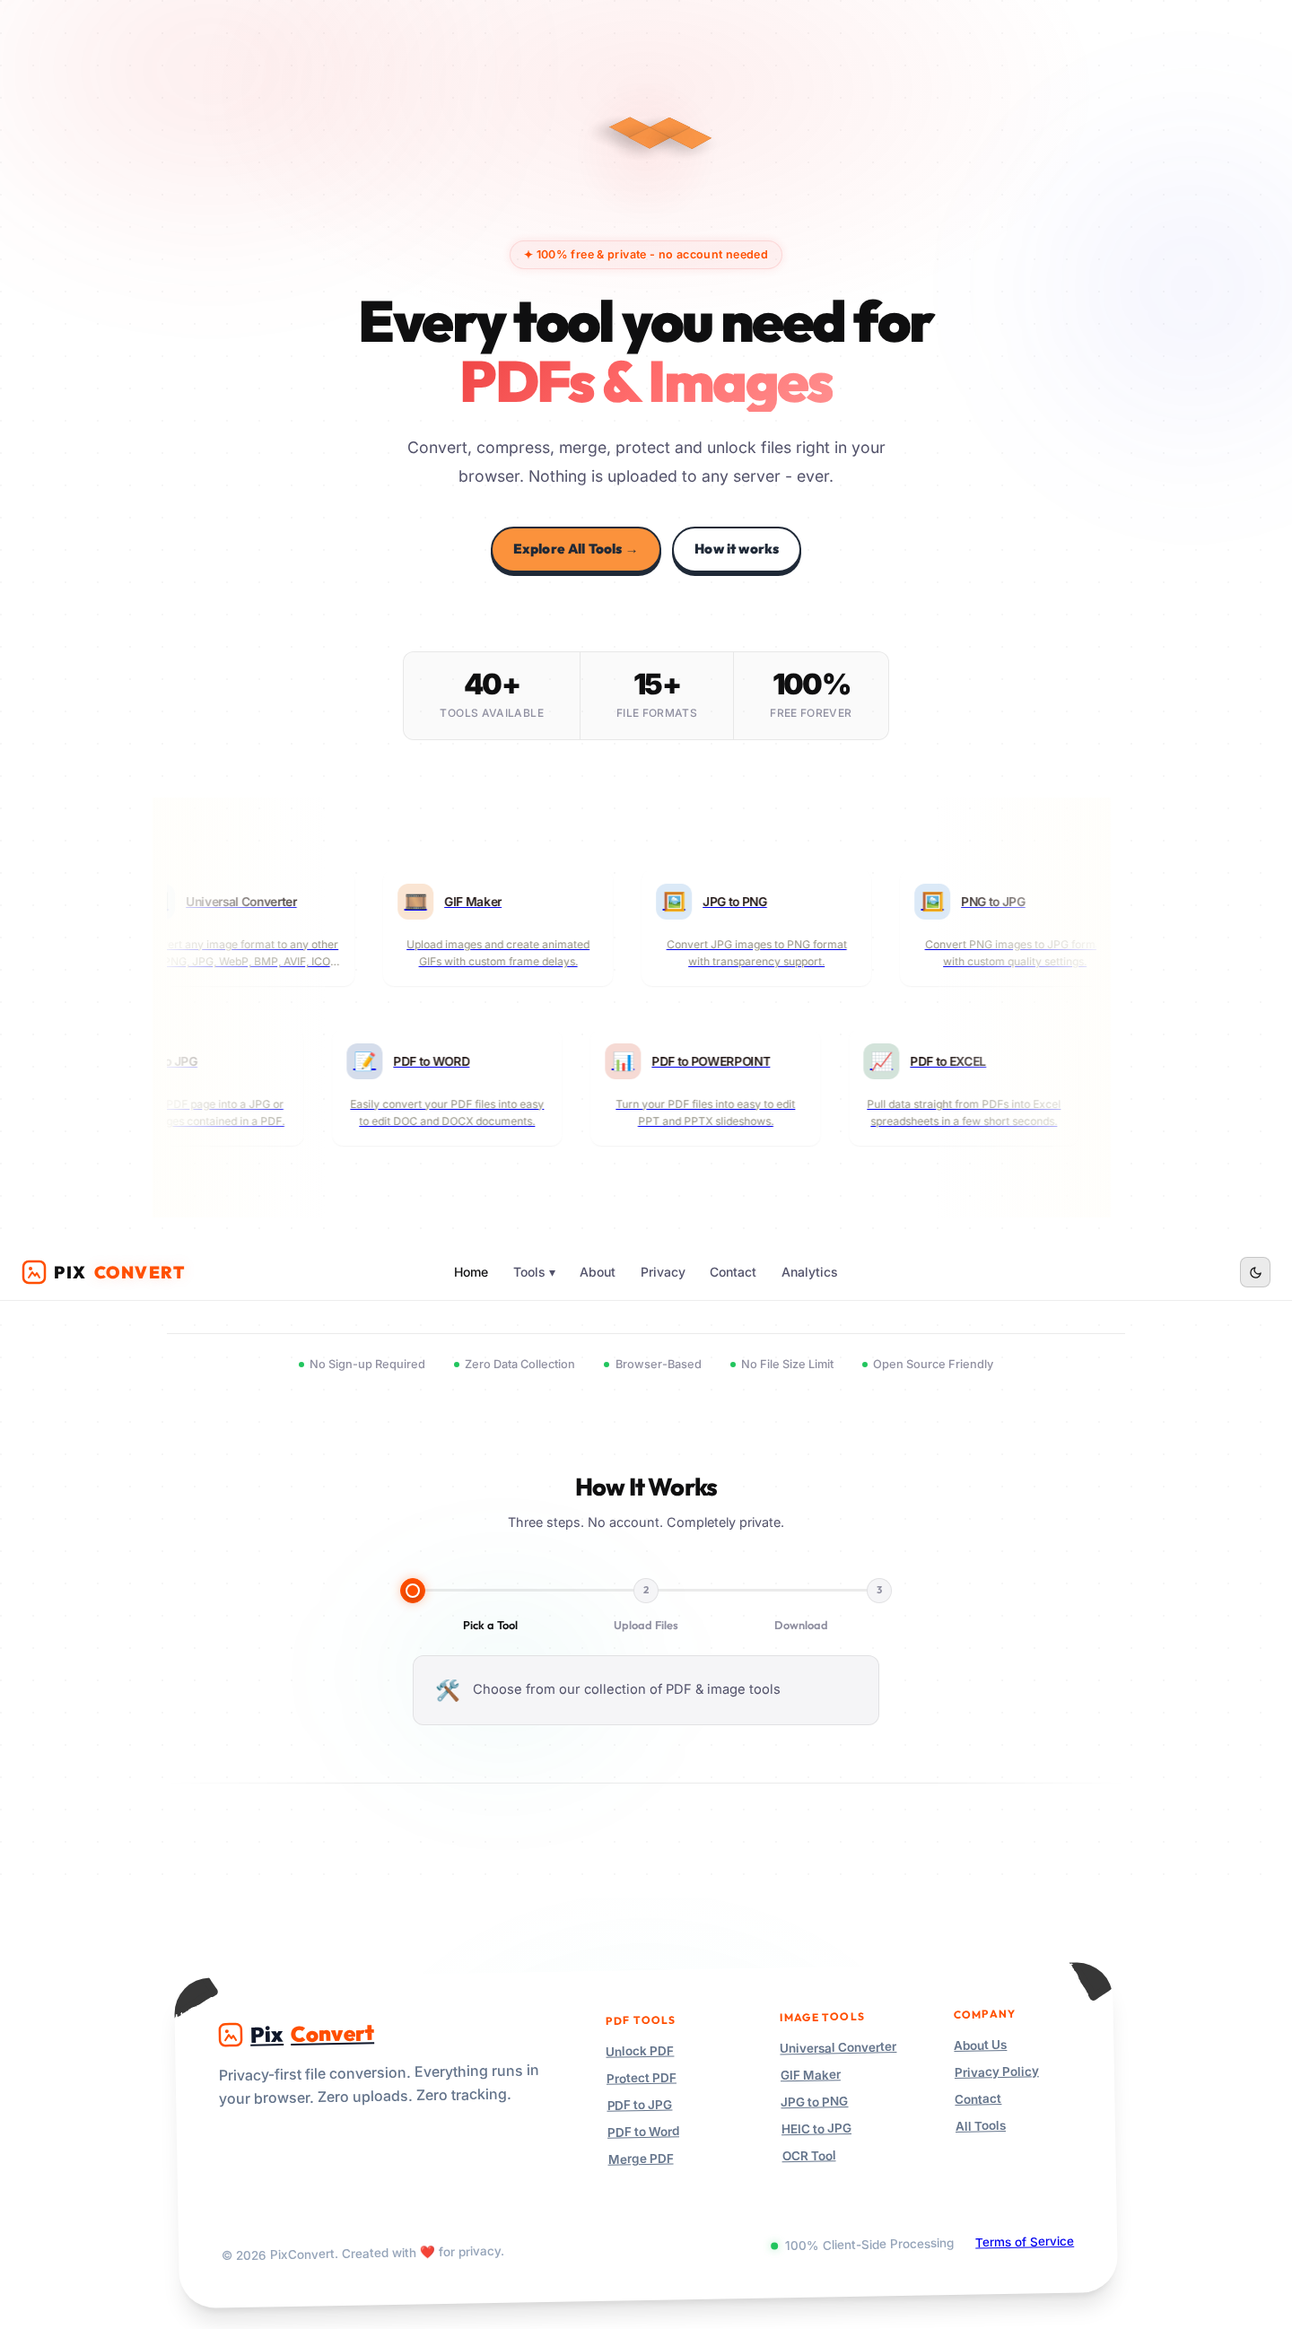
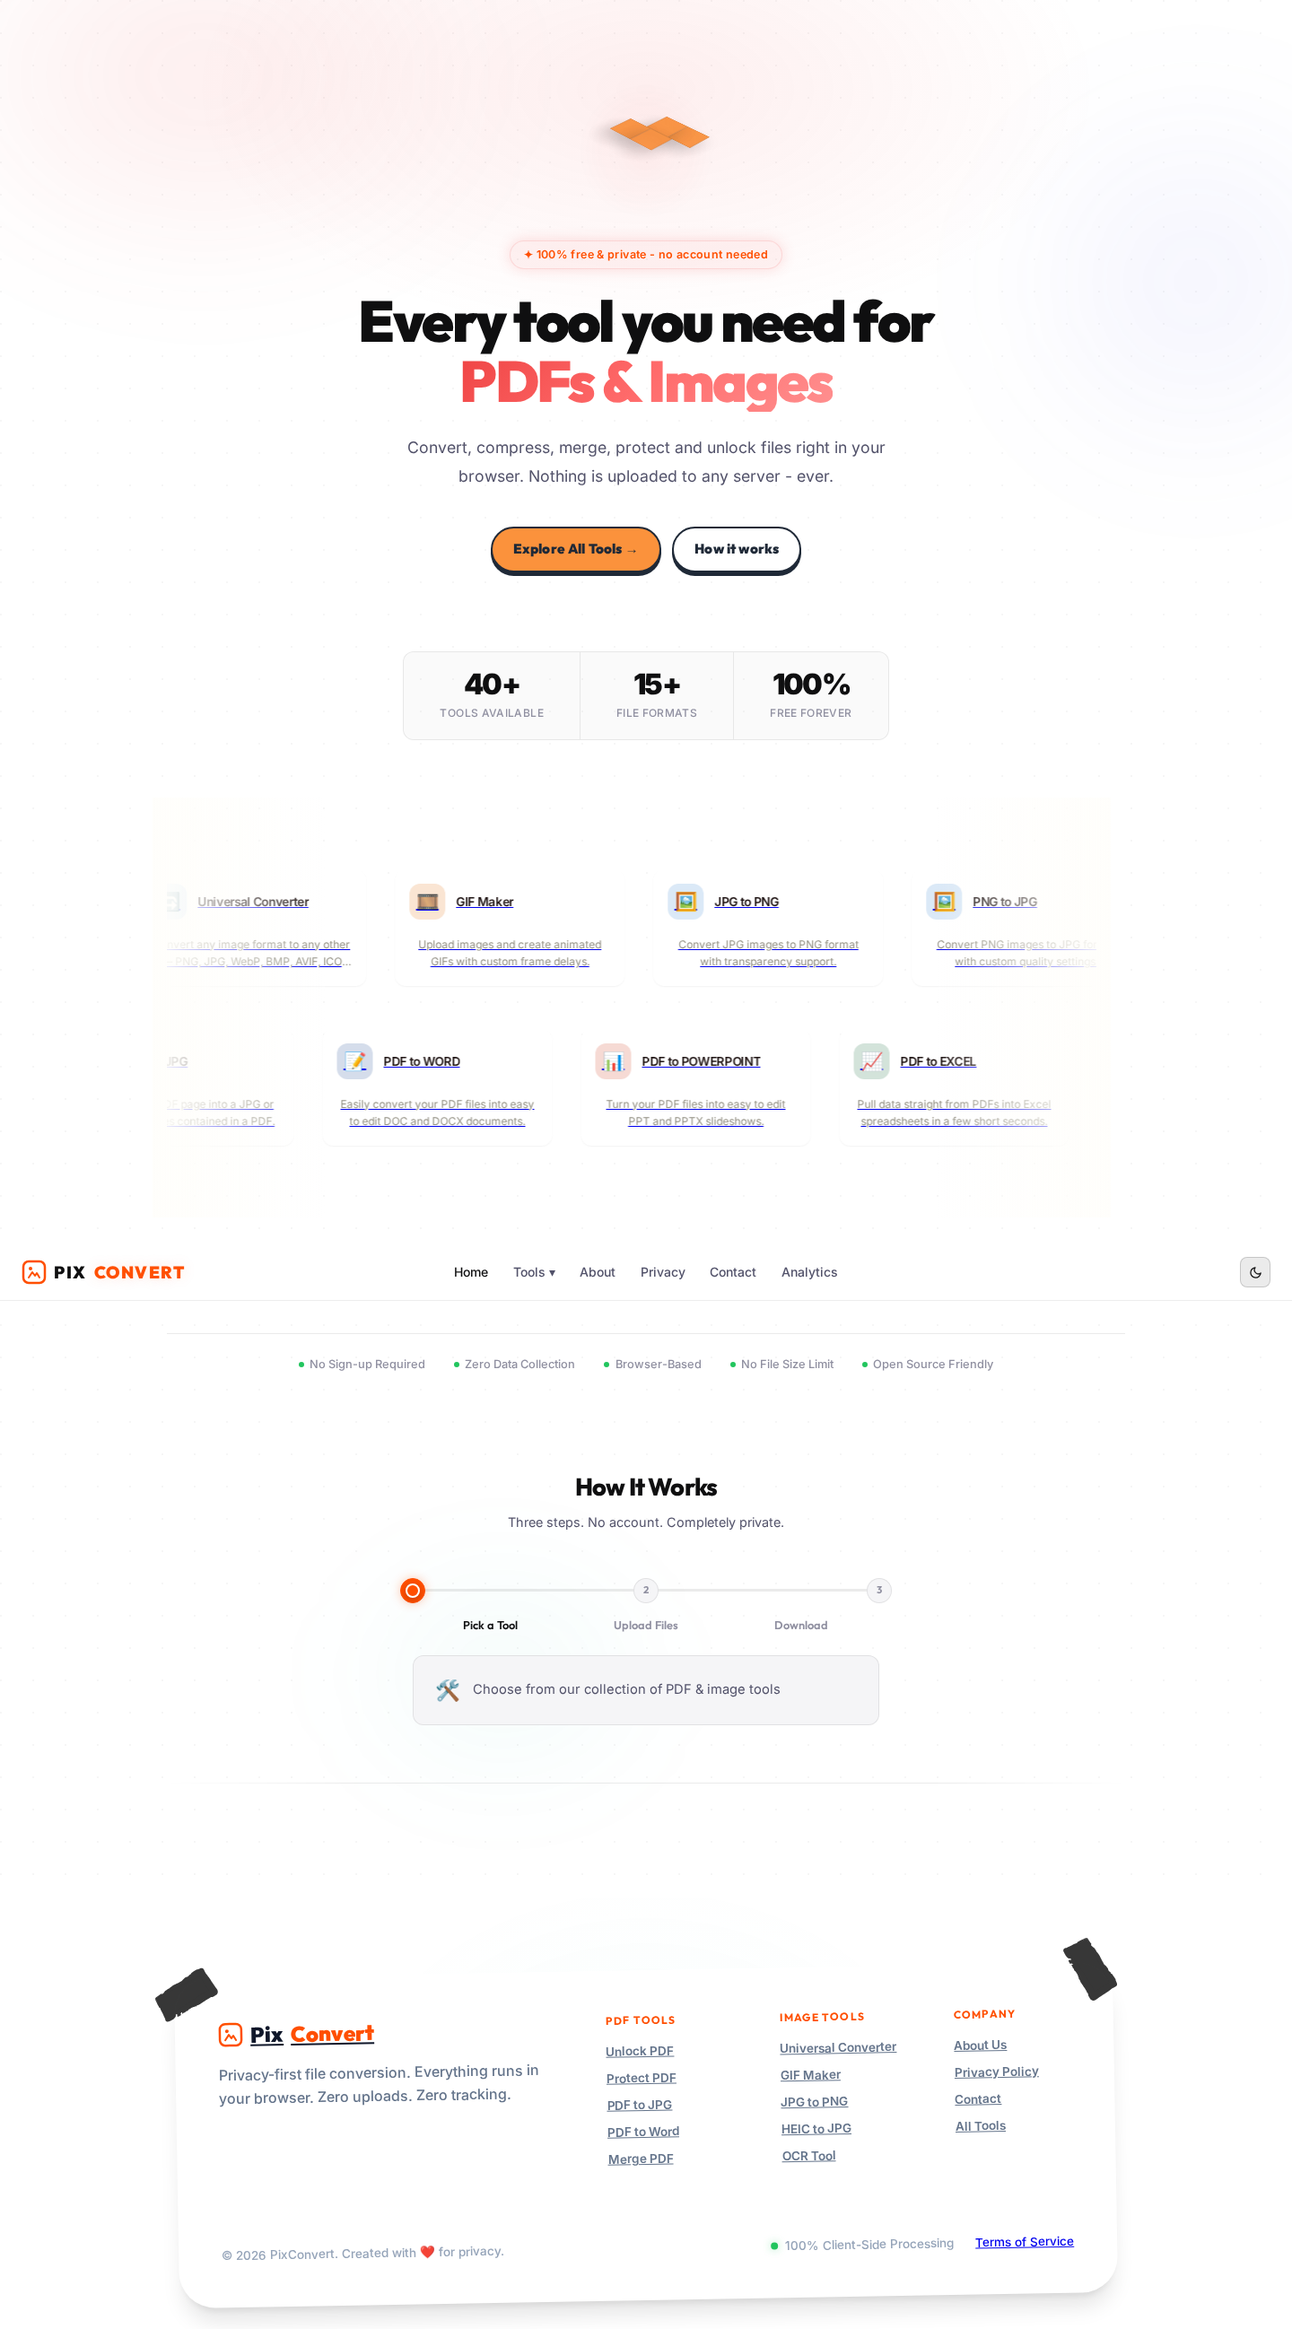
fix: implement per-file analytics tracking and update README visuals

diff --git a/src/components/Analytics.jsx b/src/components/Analytics.jsx
@@ -50,20 +50,38 @@ const TOOL_LABELS = {
 
 const toolLabel = (slug) => TOOL_LABELS[slug] || slug.replace(/-/g, ' ').replace(/\b\w/g, c => c.toUpperCase());
 
-// ─── SVG Bar Chart ───
-const BarChart = ({ buckets }) => {
+// ─── SVG Line Chart ───
+const LineChart = ({ buckets }) => {
   const max = Math.max(...buckets.map(b => b.count), 1);
-  const w = 720, h = 260, pad = { top: 20, right: 12, bottom: 52, left: 44 };
+  const w = 720, h = 260, pad = { top: 20, right: 24, bottom: 52, left: 44 };
   const chartW = w - pad.left - pad.right;
   const chartH = h - pad.top - pad.bottom;
-  const barW = Math.max(4, chartW / buckets.length - 4);
+  const spacing = buckets.length > 1 ? chartW / (buckets.length - 1) : chartW;
   const [hoveredIdx, setHoveredIdx] = useState(null);
 
   // Y-axis ticks
   const yTicks = [0, Math.round(max * 0.25), Math.round(max * 0.5), Math.round(max * 0.75), max];
 
+  // Calculate points
+  const points = buckets.map((b, i) => {
+    const x = pad.left + i * spacing;
+    const y = pad.top + chartH - (b.count / max) * chartH;
+    return { x, y, b, i };
+  });
+
+  const linePath = points.map((p, i) => (i === 0 ? `M ${p.x},${p.y}` : `L ${p.x},${p.y}`)).join(' ');
+  const areaPath = points.length > 0 ? `${linePath} L ${points[points.length - 1].x},${pad.top + chartH} L ${points[0].x},${pad.top + chartH} Z` : '';
+
   return (
     <svg viewBox={`0 0 ${w} ${h}`} className="analytics-chart-svg">
+      {/* Defs for gradients */}
+      <defs>
+        <linearGradient id="areaGradient" x1="0%" y1="0%" x2="0%" y2="100%">
+          <stop offset="0%" stopColor="var(--primary)" stopOpacity="0.3" />
+          <stop offset="100%" stopColor="var(--primary)" stopOpacity="0.0" />
+        </linearGradient>
+      </defs>
+
       {/* Grid lines */}
       {yTicks.map((t, i) => {
         const y = pad.top + chartH - (t / max) * chartH;
@@ -77,36 +95,51 @@ const BarChart = ({ buckets }) => {
         );
       })}
 
-      {/* Bars */}
-      {buckets.map((b, i) => {
-        const x = pad.left + (i / buckets.length) * chartW + 2;
-        const barH = (b.count / max) * chartH;
-        const y = pad.top + chartH - barH;
+      {/* Area & Line */}
+      {points.length > 0 && (
+        <>
+          <path d={areaPath} fill="url(#areaGradient)" />
+          <path d={linePath} fill="none" stroke="var(--primary)" strokeWidth="3" strokeLinecap="round" strokeLinejoin="round" />
+        </>
+      )}
+
+      {/* Points & Interactive Zones */}
+      {points.map((p, i) => {
         const isHovered = hoveredIdx === i;
+        const hitWidth = spacing;
+        const hitX = p.x - spacing / 2;
+
         return (
           <g key={i}
             onMouseEnter={() => setHoveredIdx(i)}
             onMouseLeave={() => setHoveredIdx(null)}
           >
-            <rect x={x} y={y} width={barW} height={barH}
-              rx={2} fill={isHovered ? 'var(--primary)' : 'rgba(255,79,0,0.65)'}
-              style={{ transition: 'fill 0.15s, height 0.3s, y 0.3s' }}
-            />
+            {/* Invisible hover area for easier interaction */}
+            <rect x={Math.max(pad.left, hitX)} y={pad.top} width={Math.min(hitWidth, w - pad.right)} height={chartH} fill="transparent" style={{ cursor: 'crosshair' }} />
+            
+            {/* Point */}
+            <circle cx={p.x} cy={p.y} r={isHovered ? 6 : 4} fill={isHovered ? 'var(--bg)' : 'var(--primary)'} stroke="var(--primary)" strokeWidth="3" style={{ transition: 'r 0.15s, fill 0.15s' }} />
+            
+            {/* Hover guideline */}
+            {isHovered && (
+              <line x1={p.x} x2={p.x} y1={p.y + 6} y2={pad.top + chartH} stroke="var(--primary)" strokeWidth="1" strokeDasharray="3,3" opacity="0.5" />
+            )}
+
             {/* Hover tooltip */}
-            {isHovered && b.count > 0 && (
+            {isHovered && (
               <g>
-                <rect x={x + barW / 2 - 20} y={y - 26} width={40} height={20}
-                  rx={4} fill="var(--bg)" stroke="var(--border)" strokeWidth={0.5} />
-                <text x={x + barW / 2} y={y - 12} textAnchor="middle"
-                  className="chart-tooltip-text">{b.count}</text>
+                <rect x={p.x - 20} y={p.y - 32} width={40} height={20}
+                  rx={4} fill="var(--bg)" stroke="var(--border)" strokeWidth={1} style={{ filter: 'drop-shadow(0 4px 6px rgba(0,0,0,0.1))' }} />
+                <text x={p.x} y={p.y - 18} textAnchor="middle" fill="var(--text)" style={{ fontSize: '11px', fontWeight: 'bold' }}>{p.b.count}</text>
               </g>
             )}
+
             {/* X-axis label */}
             {(buckets.length <= 12 || i % Math.ceil(buckets.length / 12) === 0) && (
-              <text x={x + barW / 2} y={h - pad.bottom + 16}
+              <text x={p.x} y={h - pad.bottom + 16}
                 textAnchor="middle" className="chart-axis-text"
-                transform={`rotate(-35, ${x + barW / 2}, ${h - pad.bottom + 16})`}>
-                {b.label}
+                transform={`rotate(-35, ${p.x}, ${h - pad.bottom + 16})`}>
+                {p.b.label}
               </text>
             )}
           </g>
@@ -203,59 +236,74 @@ const Analytics = () => {
   }, [period, fetchStats]);
 
   return (
-    <div className="analytics-page">
-      <div className="analytics-header">
-        <div>
-          <h1 className="analytics-title">Analytics</h1>
-          <p className="analytics-subtitle">Real-time file processing metrics</p>
+    <section>
+      <div className="container" style={{ maxWidth: '1000px' }}>
+        
+        <div style={{ display: 'flex', justifyContent: 'space-between', alignItems: 'flex-end', flexWrap: 'wrap', gap: '1rem', marginBottom: '2.5rem' }}>
+          <div>
+            <h2 className="section-title fade-in visible" style={{ textAlign: 'left', marginBottom: '0.2rem', marginLeft: 0 }}>Analytics</h2>
+            <p className="section-subtitle fade-in visible" style={{ textAlign: 'left', margin: 0 }}>Real-time file processing metrics</p>
+          </div>
+          <div className="analytics-live-badge">
+            <span className="live-dot" />
+            <span className="live-count">{liveTotal.toLocaleString()}</span>
+            <span className="live-label">files processed</span>
+          </div>
         </div>
-        <div className="analytics-live-badge">
-          <span className="live-dot" />
-          <span className="live-count">{liveTotal.toLocaleString()}</span>
-          <span className="live-label">files processed</span>
+
+        <div className="contact-grid fade-in visible">
+          
+          {/* Left Column: Chart */}
+          <div className="glass" style={{ display: 'flex', flexDirection: 'column' }}>
+            <div style={{ display: 'flex', justifyContent: 'space-between', alignItems: 'center', marginBottom: '1.5rem', flexWrap: 'wrap', gap: '0.5rem' }}>
+              <h3 style={{ fontFamily: 'var(--heading)', color: 'var(--text)', margin: 0, fontSize: '1.35rem', fontWeight: '800' }}>
+                Files Processed
+              </h3>
+              <span className="analytics-card-badge">
+                {stats?.total?.toLocaleString() || 0} this {period === 'daily' ? 'day' : period === 'weekly' ? 'week' : period === 'monthly' ? 'month' : 'year'}
+              </span>
+            </div>
+            
+            <div className="analytics-periods" style={{ marginBottom: '1.5rem', alignSelf: 'flex-start' }}>
+              {PERIODS.map(p => (
+                <button
+                  key={p.key}
+                  className={`period-btn${period === p.key ? ' active' : ''}`}
+                  onClick={() => setPeriod(p.key)}
+                >
+                  {p.label}
+                </button>
+              ))}
+            </div>
+
+            <div style={{ flex: 1, display: 'flex', flexDirection: 'column', justifyContent: 'center' }}>
+              {loading ? (
+                <div className="analytics-loading">Loading chart…</div>
+              ) : stats?.buckets?.length ? (
+                <LineChart buckets={stats.buckets} />
+              ) : (
+                <p className="analytics-empty">No data for this period.</p>
+              )}
+            </div>
+          </div>
+
+          {/* Right Column: Top Tools */}
+          <div className="glass" style={{ display: 'flex', flexDirection: 'column' }}>
+            <h3 style={{ fontFamily: 'var(--heading)', color: 'var(--text)', marginBottom: '1.5rem', fontSize: '1.35rem', fontWeight: '800' }}>
+              Top Tools
+            </h3>
+            <div style={{ flex: 1 }}>
+              {loading ? (
+                <div className="analytics-loading">Loading…</div>
+              ) : (
+                <TopToolsList tools={stats?.topTools || []} />
+              )}
+            </div>
+          </div>
+
         </div>
       </div>
-
-      {/* Period toggle */}
-      <div className="analytics-periods">
-        {PERIODS.map(p => (
-          <button
-            key={p.key}
-            className={`period-btn${period === p.key ? ' active' : ''}`}
-            onClick={() => setPeriod(p.key)}
-          >
-            {p.label}
-          </button>
-        ))}
-      </div>
-
-      {/* Chart section */}
-      <div className="analytics-card analytics-chart-card">
-        <h2 className="analytics-card-title">
-          Files Processed
-          <span className="analytics-card-badge">
-            {stats?.total?.toLocaleString() || 0} this {period === 'daily' ? 'day' : period === 'weekly' ? 'week' : period === 'monthly' ? 'month' : 'year'}
-          </span>
-        </h2>
-        {loading ? (
-          <div className="analytics-loading">Loading chart…</div>
-        ) : stats?.buckets?.length ? (
-          <BarChart buckets={stats.buckets} />
-        ) : (
-          <p className="analytics-empty">No data for this period.</p>
-        )}
-      </div>
-
-      {/* Top tools */}
-      <div className="analytics-card">
-        <h2 className="analytics-card-title">Top Tools</h2>
-        {loading ? (
-          <div className="analytics-loading">Loading…</div>
-        ) : (
-          <TopToolsList tools={stats?.topTools || []} />
-        )}
-      </div>
-    </div>
+    </section>
   );
 };
 

diff --git a/server.js b/server.js
@@ -327,16 +327,27 @@ app.post('/api/contact', contactLimiter, async (req, res) => {
 });
 
 // --- Metrics API ---
-// POST /api/metrics/track — record a tool usage event
+// POST /api/metrics/track — record tool usage event(s)
 app.post('/api/metrics/track', (req, res) => {
-  const { tool } = req.body;
+  const { tool, count = 1 } = req.body;
   if (!tool || typeof tool !== 'string' || tool.length > 100) {
     return res.status(400).json({ error: 'Invalid tool name' });
   }
-  const event = { tool: tool.toLowerCase().trim(), ts: Date.now() };
-  metricsEvents.push(event);
+  
+  const num = Math.max(1, Math.min(1000, Number(count) || 1));
+  const now = Date.now();
+  
+  for (let i = 0; i < num; i++) {
+    metricsEvents.push({ tool: tool.toLowerCase().trim(), ts: now });
+  }
+  
   saveMetrics();
-  broadcastSSE({ type: 'new_event', event, totalAllTime: metricsEvents.length });
+  broadcastSSE({ 
+    type: 'new_event', 
+    tool: tool.toLowerCase().trim(),
+    count: num,
+    totalAllTime: metricsEvents.length 
+  });
   res.json({ ok: true });
 });
 

diff --git a/src/components/ToolProgressBar.jsx b/src/components/ToolProgressBar.jsx
@@ -2,18 +2,18 @@ import { useEffect, useRef } from 'react';
 import ProcessBoxLoader from './ui/process-box-loader';
 import { trackToolUsage } from '../utils/trackUsage';
 
-const ToolProgressBar = ({ active, label = 'Processing...', value, className = '', style: wrapStyle }) => {
+const ToolProgressBar = ({ active, label = 'Processing...', value, count = 1, className = '', style: wrapStyle }) => {
   const trackedRef = useRef(false);
 
   useEffect(() => {
     if (active && !trackedRef.current) {
       trackedRef.current = true;
       const toolSlug = window.location.pathname.split('/').pop() || 'unknown';
-      trackToolUsage(toolSlug);
+      trackToolUsage(toolSlug, count);
     } else if (!active) {
       trackedRef.current = false; // reset for next run
     }
-  }, [active]);
+  }, [active, count]);
 
   if (!active) return null;
 

diff --git a/src/components/Footer.jsx b/src/components/Footer.jsx
@@ -12,7 +12,7 @@ const Footer = () => {
 
   return (
     <footer className="mt-20 mb-8 px-4 max-w-6xl mx-auto font-sans -rotate-1">
-      <div className="relative bg-white dark:bg-slate-900 rounded-[2.5rem] border border-slate-200 dark:border-white/5 shadow-xl mx-auto px-6 md:px-12 py-12 flex flex-col gap-12 overflow-hidden text-slate-900 dark:text-slate-100">
+      <div className="relative bg-white dark:bg-slate-900 rounded-[2.5rem] border border-slate-200 dark:border-white/5 shadow-xl mx-auto px-6 md:px-12 py-12 flex flex-col gap-12 text-slate-900 dark:text-slate-100">
         {/* Tapes */}
         <div className="hidden md:block absolute -top-4 -left-8 w-[80px] h-[36px] scale-75 opacity-90">
           {tape}

diff --git a/src/utils/trackUsage.js b/src/utils/trackUsage.js
@@ -2,14 +2,15 @@
  * Fire-and-forget tool usage tracker.
  * Sends a non-blocking POST to the metrics API.
  * @param {string} tool - tool slug, e.g. "merge-pdf"
+ * @param {number} count - number of files processed
  */
-export function trackToolUsage(tool) {
+export function trackToolUsage(tool, count = 1) {
   if (!tool) return;
   try {
     fetch('/api/metrics/track', {
       method: 'POST',
       headers: { 'Content-Type': 'application/json' },
-      body: JSON.stringify({ tool }),
+      body: JSON.stringify({ tool, count }),
     }).catch(() => {});
   } catch {
     // silent — metrics should never break UX

diff --git a/src/components/UniversalConverter.jsx b/src/components/UniversalConverter.jsx
@@ -374,6 +374,7 @@ const UniversalConverter = ({ defaultOutputFormat = null }) => {
             active={!!progressStage}
             label={progressStage || 'Processing…'}
             value={progressValue}
+            count={files.length}
             className="fade-in visible"
             style={{ margin: '1rem 0' }}
           />

diff --git a/src/index.css b/src/index.css
@@ -2004,7 +2004,7 @@ section { padding: 5rem 2rem 4rem; }
 
 /* ─── Analytics Page ─── */
 .analytics-page {
-  max-width: 900px; margin: 2rem auto 6rem;
+  max-width: 900px; margin: 8rem auto 6rem;
   padding: 0 1.5rem;
 }
 .analytics-header {

diff --git a/README.md b/README.md
@@ -7,12 +7,16 @@ PixConvert is a free, privacy-focused, and open-source file conversion ecosystem
 ### 1. Interactive "How It Works" Timeline
 A custom-built, drag-based timeline that guides users through the simple 3-step process. Features fluid animations and real-time step previews.
 
+**Visualizing the Process:**
+![Timeline Sequence](./docs/screenshots/timeline-step-1.png)
+*(Interactive drag-to-explore interface)*
+
 | Dark Mode | Light Mode |
 | :---: | :---: |
 | ![Home Timeline Dark](./docs/screenshots/home-timeline-dark.png) | ![Home Timeline Light](./docs/screenshots/home-timeline-light.png) |
 
-### 2. Real-time Analytics Dashboard
-Powered by Server-Sent Events (SSE), the dashboard provides live metrics on file processing trends and top-performing tools without requiring a page refresh.
+### 2. Real-time Analytics Dashboard (Per-File Tracking)
+Powered by Server-Sent Events (SSE), the dashboard provides live metrics on file processing trends. Every single file processed counts toward the real-time global counter.
 
 | Analytics Dashboard (Dark) | Data Visualization |
 | :---: | :---: |
@@ -71,19 +75,6 @@ The repo includes a portable production container setup:
    ```bash
    npm run server
    ```
-
-### Run in Docker
-
-```bash
-docker compose up --build -d
-```
-
-### CPU/RAM Autoscaling
-
-Run the host-side autoscaler to manage replicas dynamically:
-```bash
-npm run autoscale:docker
-```
 
 ---
 
